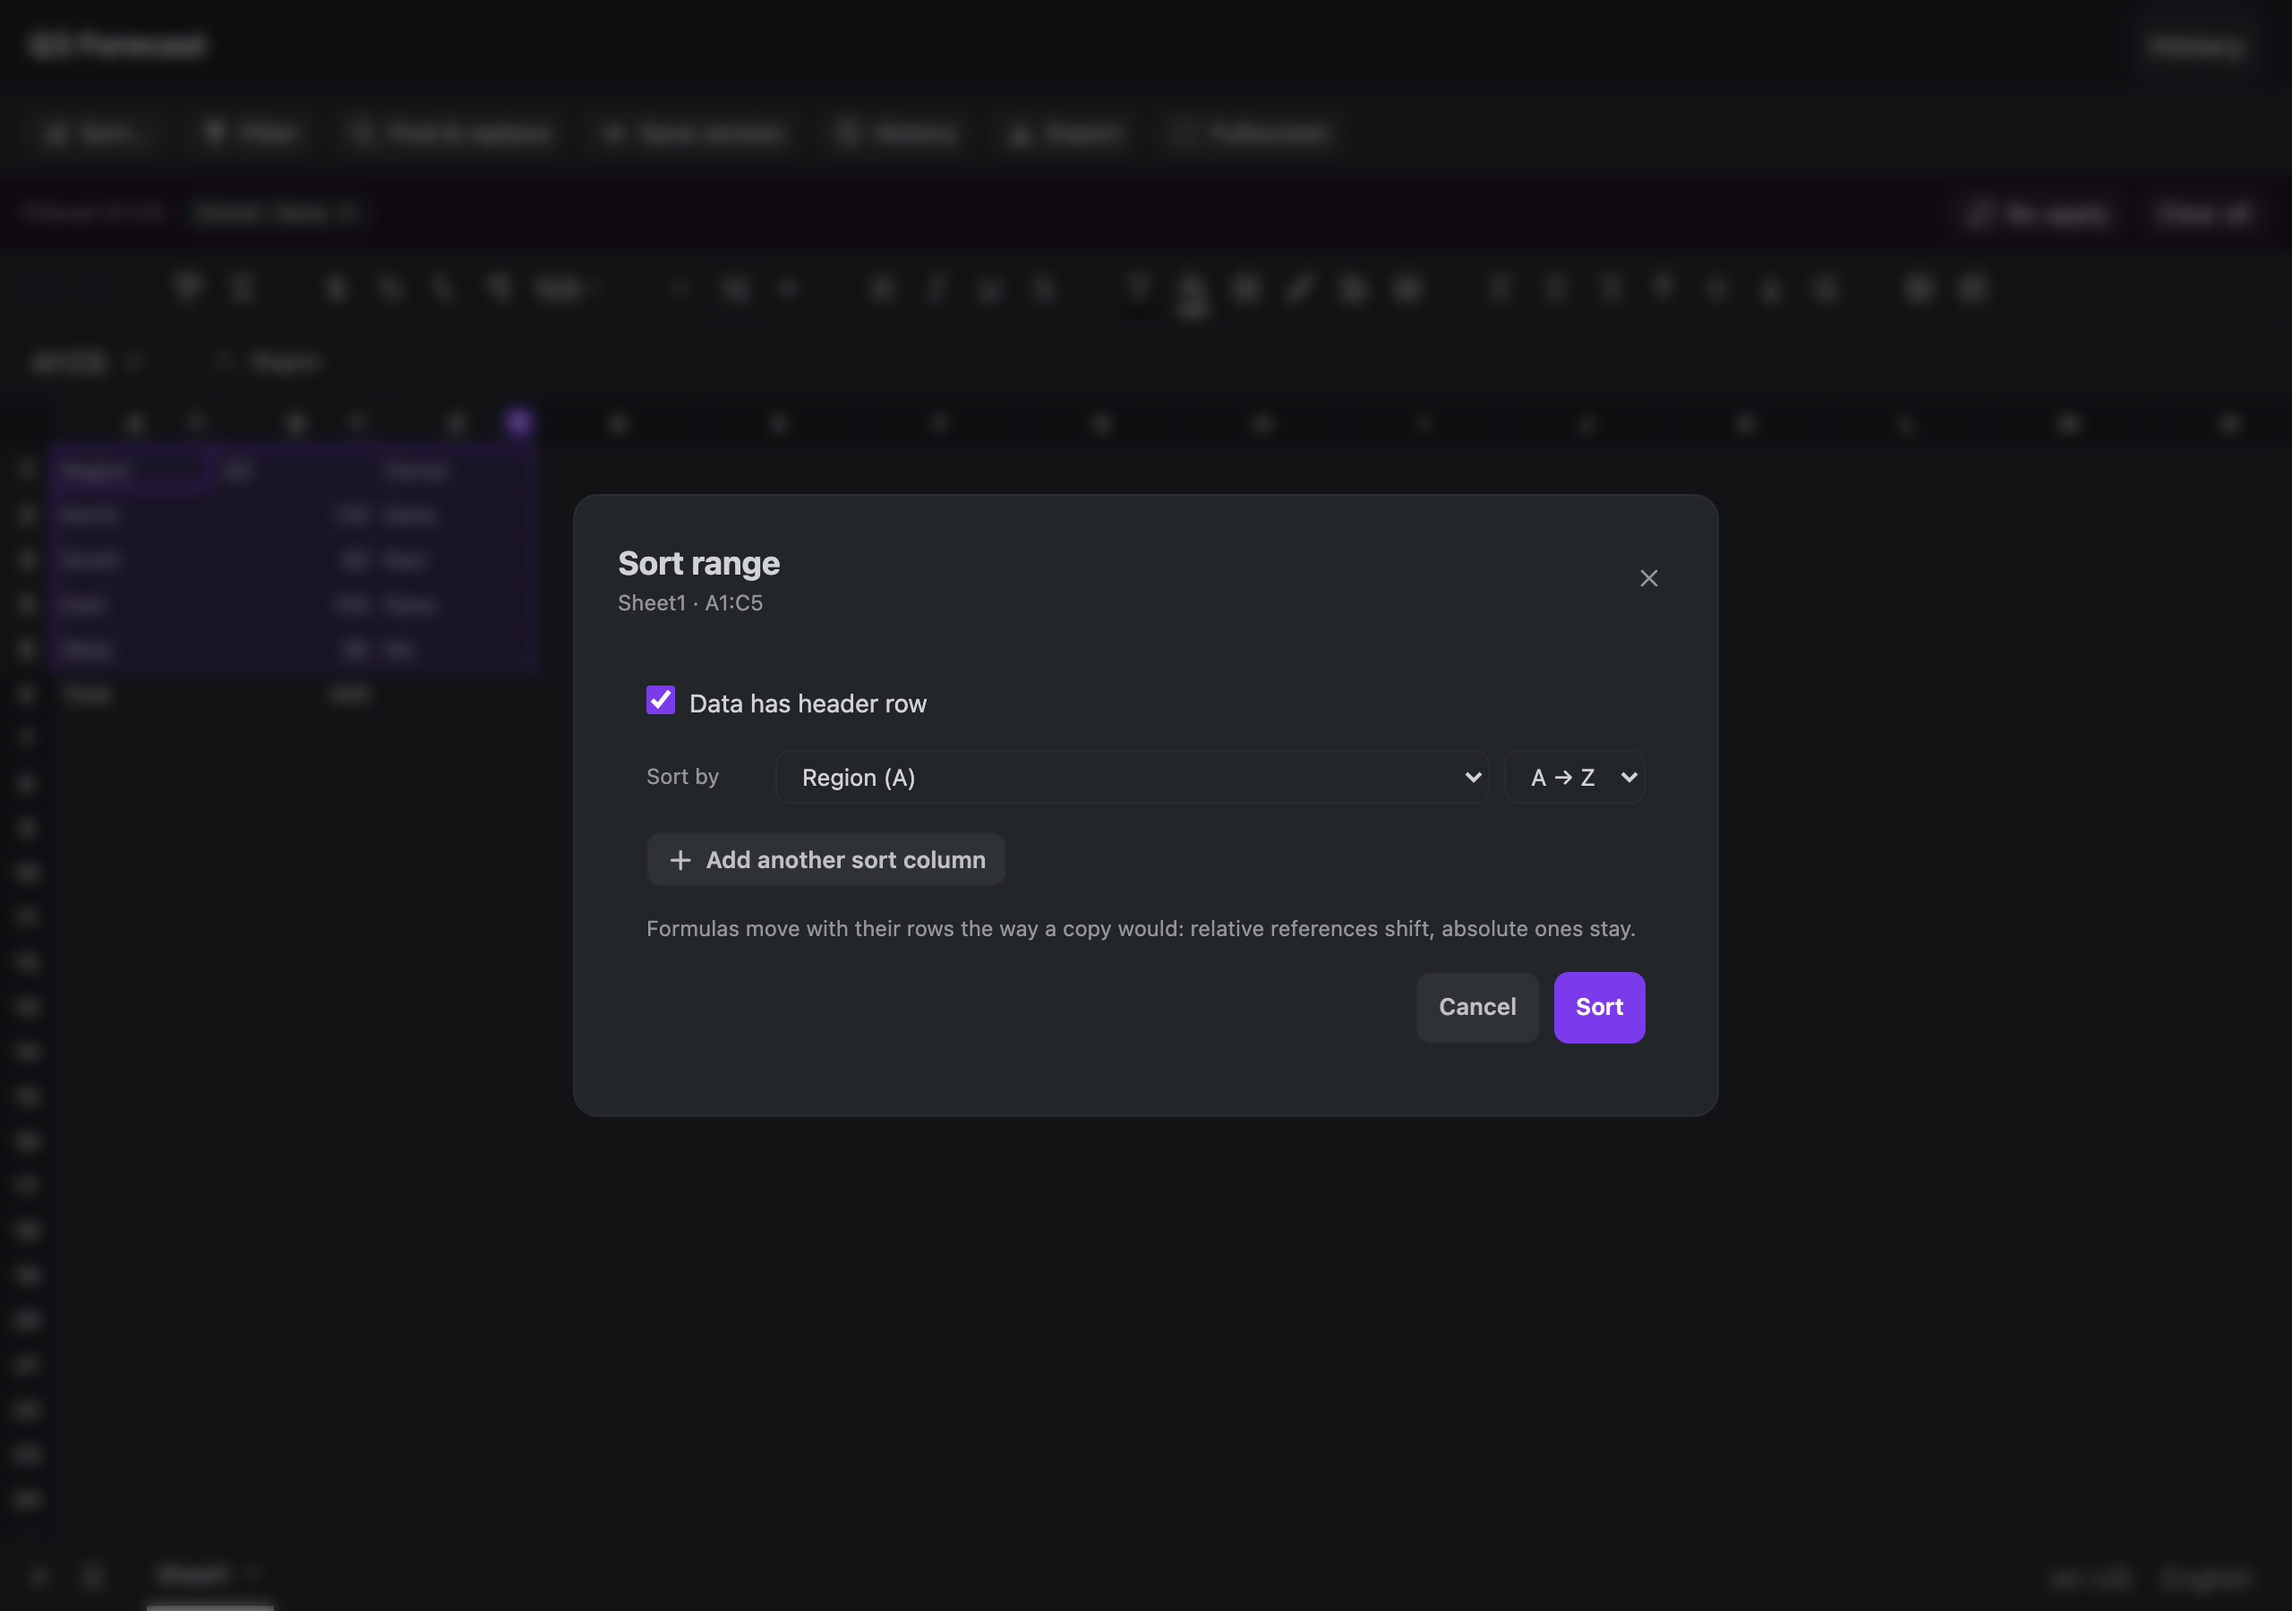
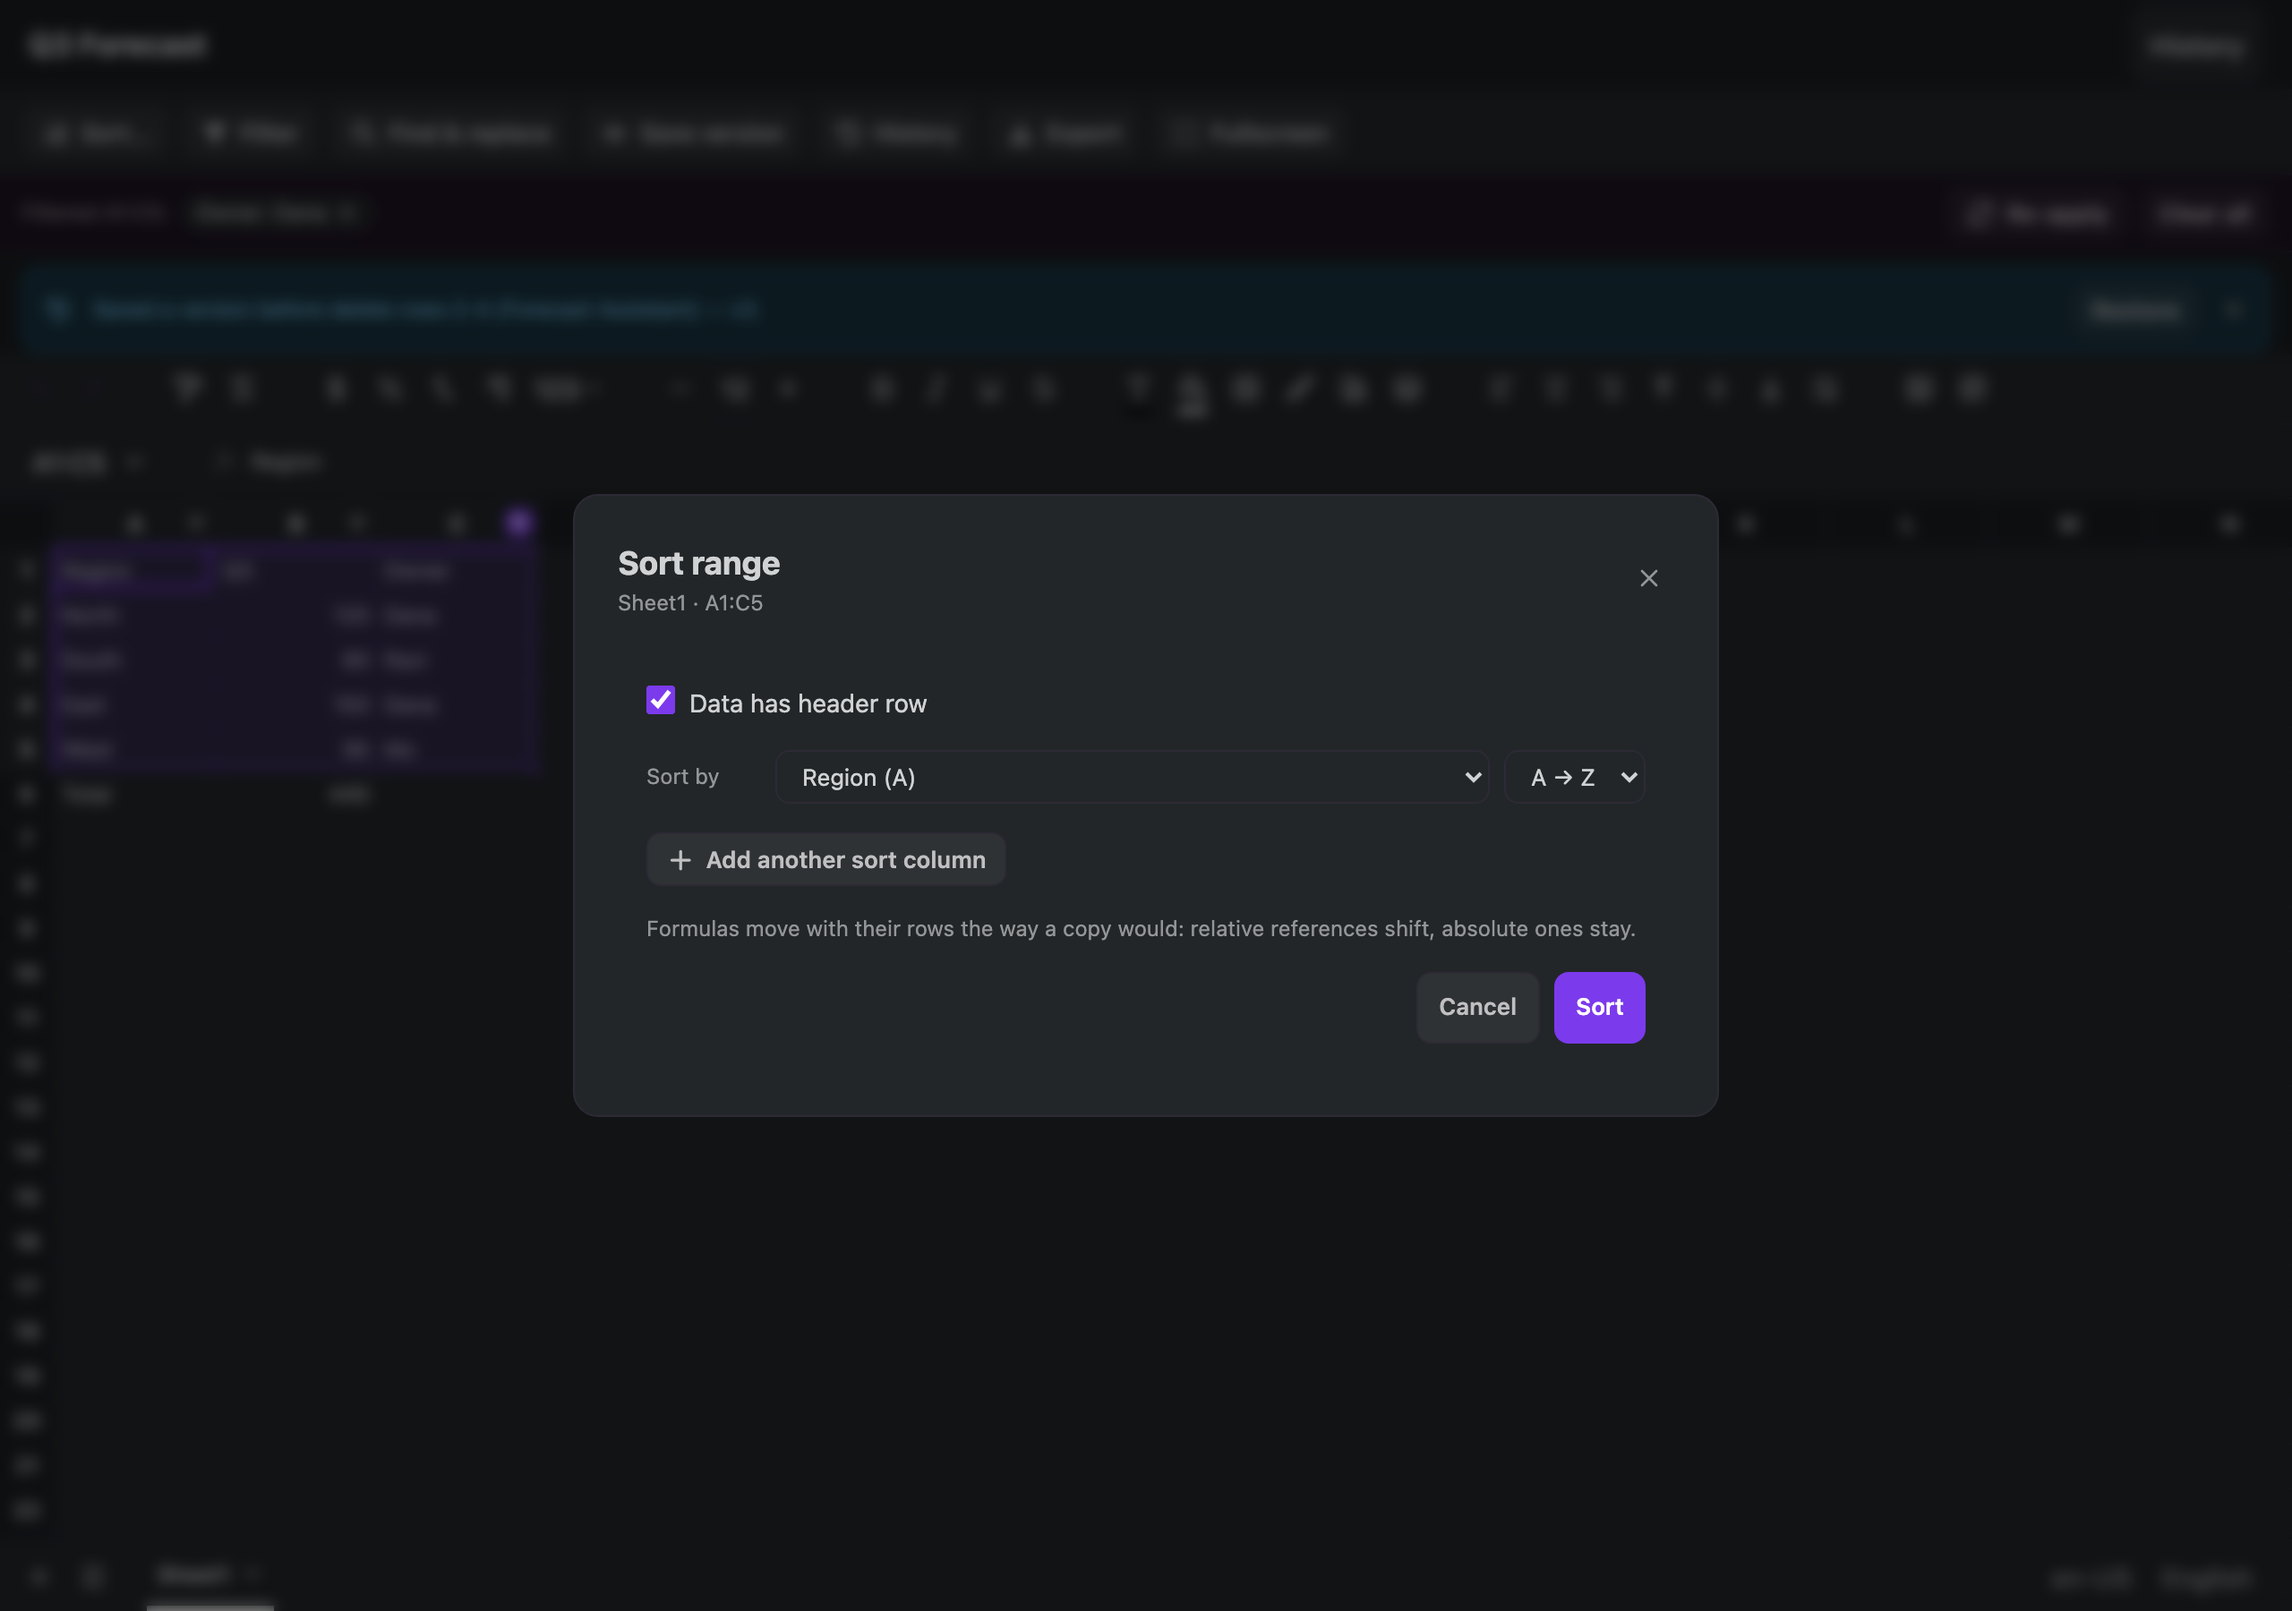
feat(spreadsheet): the pre-destructive notice is fed, not invented
"Saved a version before <action> — Restore" is the whole of this feature's
safety story: there is no approval gate, so the undo for a destructive act
belongs in the reader's eyeline at the moment it happens rather than waiting to
be hunted for in History. The pane owns the surface and its dismissal; the
trigger is a batch summary arriving on the live lane (3b) or an agent's tool
result (Phase 4), which this pane cannot know on its own — so it is a
`versionNotice` prop, and a newly arriving snapshot is not hidden behind a
dismissed one.

The harness supplies one, so the notice and its Restore are on screen in
`create.png` and asserted by the run rather than merely written.

diff --git a/admin/src/components/features/knowledge/spreadsheet/SpreadsheetPane.tsx b/admin/src/components/features/knowledge/spreadsheet/SpreadsheetPane.tsx
@@ -73,6 +73,14 @@ type SpreadsheetPaneProps = {
   liveStatus?: 'connecting' | 'live' | 'offline'
   /** Set while the server is rebuilding on a newer engine: the grid is read-only. */
   engineMigrating?: boolean
+  /**
+   * The pre-destructive snapshot to offer a Restore for. 3a owns the notice;
+   * the *trigger* is a batch's summary arriving on the live lane (Phase 3b) or
+   * an agent's tool result (Phase 4), so it is a prop rather than something
+   * this pane could know on its own. The pane still owns dismissal, and the
+   * Restore inside it goes through the same mutation as History's.
+   */
+  versionNotice?: SpreadsheetVersionSavedNotice | null
 }
 
 export const SpreadsheetPane = ({
@@ -85,6 +93,7 @@ export const SpreadsheetPane = ({
   onSession,
   page,
   peers = [],
+  versionNotice = null,
 }: SpreadsheetPaneProps) => {
   const { token } = useAuthSession()
   const viewport = useViewport()
@@ -108,7 +117,12 @@ export const SpreadsheetPane = ({
   const [formatBarVisible, setFormatBarVisible] = useState(false)
   const [open, setOpen] = useState<null | 'export' | 'find' | 'history' | 'save-version' | 'sort'>(null)
   const [filterColumn, setFilterColumn] = useState<number | null>(null)
-  const [notice, setNotice] = useState<SpreadsheetVersionSavedNotice | null>(null)
+  // Dismissed locally, supplied from outside: a new snapshot arriving replaces
+  // a dismissed one rather than staying hidden behind it.
+  const [dismissedNotice, setDismissedNotice] = useState<string | null>(null)
+  const notice = versionNotice && versionNotice.versionId !== dismissedNotice
+    ? versionNotice
+    : null
   const [replaceResult, setReplaceResult] = useState<SpreadsheetReplaceResult>()
   // Every write in this pane is fire-and-forget from the grid's point of view:
   // nothing here is a form with a field to hang an error on, so a refusal that
@@ -353,13 +367,13 @@ export const SpreadsheetPane = ({
       {notice ? (
         <SpreadsheetVersionSavedNoticeBar
           notice={notice}
-          onDismiss={() => setNotice(null)}
+          onDismiss={() => setDismissedNotice(notice.versionId)}
           onRestore={(versionId) => {
             restoreVersion.mutate(
               { pageId: page.id, versionId },
               { onError: onActionError('Restore') },
             )
-            setNotice(null)
+            setDismissedNotice(notice.versionId)
           }}
           pending={busy}
         />

diff --git a/admin/e2e/spreadsheet-shell/fixture.tsx b/admin/e2e/spreadsheet-shell/fixture.tsx
@@ -209,7 +209,20 @@ const Fixture = () => {
       <Suspense
         fallback={<p data-testid="spreadsheet-chunk-loading">Opening Q3 Forecast…</p>}
       >
-        <SpreadsheetPane canWrite onSession={publishDriver} page={page} />
+        <SpreadsheetPane
+          canWrite
+          onSession={publishDriver}
+          page={page}
+          // The pre-destructive snapshot an agent's delete would have taken.
+          // Phase 3b feeds this from the live lane's batch summary; here it is
+          // supplied directly so the notice and its Restore are on screen.
+          versionNotice={{
+            action: 'delete rows 2-4',
+            actorName: 'Forecast Assistant',
+            versionId: '00000000-0000-4000-8000-000000000103',
+            versionNumber: 3,
+          }}
+        />
       </Suspense>
     </div>
   )

diff --git a/docs/plans/2026-09-15-spreadsheets-ironcalc/phase-3a-ui.md b/docs/plans/2026-09-15-spreadsheets-ironcalc/phase-3a-ui.md
@@ -11,7 +11,7 @@ Measured 2026-09-16 against `@ironcalc/workbook` 0.8.3 + `@ironcalc/wasm`
 
 | Screenshot | What it shows |
 |---|---|
-| [`phase-3a/create.png`](phase-3a/create.png) | The grid in the default theme: our action bar, the chips bar, funnel buttons on A/B/C, IronCalc's toolbar, formula bar and sheet tabs, `B6 = 445` from `=SUM(B2:B5)`. |
+| [`phase-3a/create.png`](phase-3a/create.png) | The grid in the default theme: our action bar, the chips bar, funnel buttons on A/B/C, the pre-destructive “Saved a version before delete rows 2-4 — Restore” notice, IronCalc's toolbar, formula bar and sheet tabs, `B6 = 445` from `=SUM(B2:B5)`. |
 | [`phase-3a/theme-light.png`](phase-3a/theme-light.png) | `daylight`: surface `rgb(255,255,255)`, grid `rgb(216,222,232)` — the spike's numbers, reproduced. |
 | [`phase-3a/theme-dark.png`](phase-3a/theme-dark.png) | `midnight`: surface `rgb(17,24,39)`, grid `rgb(31,41,55)`, toolbar icons **painted** (the `--palette-common-black` trap, not re-entered), no white band across the formula bar. |
 | [`phase-3a/phone.png`](phase-3a/phone.png) | 390×844, `hasTouch`: the action bar collapsed to icons, IronCalc's toolbar parked behind "Format", formula bar and sheet tabs kept, `canEdit` on. |
@@ -136,8 +136,12 @@ moment somebody looked.
 
 ## Seams left for Phase 3b
 
-- `SpreadsheetPane`'s `onSession`, `onFlush`, `onPresence`, `peers` and
-  `liveStatus` props. `WorkbookSession` carries `{ model, handle, redraw,
+- `SpreadsheetPane`'s `onSession`, `onFlush`, `onPresence`, `peers`,
+  `liveStatus` and `versionNotice` props. The last one is the
+  “Saved a version before … — Restore” notice: 3a owns the surface and its
+  dismissal, and the *trigger* is a batch summary arriving on the live lane
+  (3b) or an agent's tool result (Phase 4), which is not something this pane
+  could know on its own. `WorkbookSession` carries `{ model, handle, redraw,
   applyExternal, flushNow, appliedSeq, missingSeqs }`.
 - `spreadsheet-geometry.ts` — `cellRect` / `cellFromPoint` with the frozen
   panes the spike's prototype skipped, already shared with the filter header
